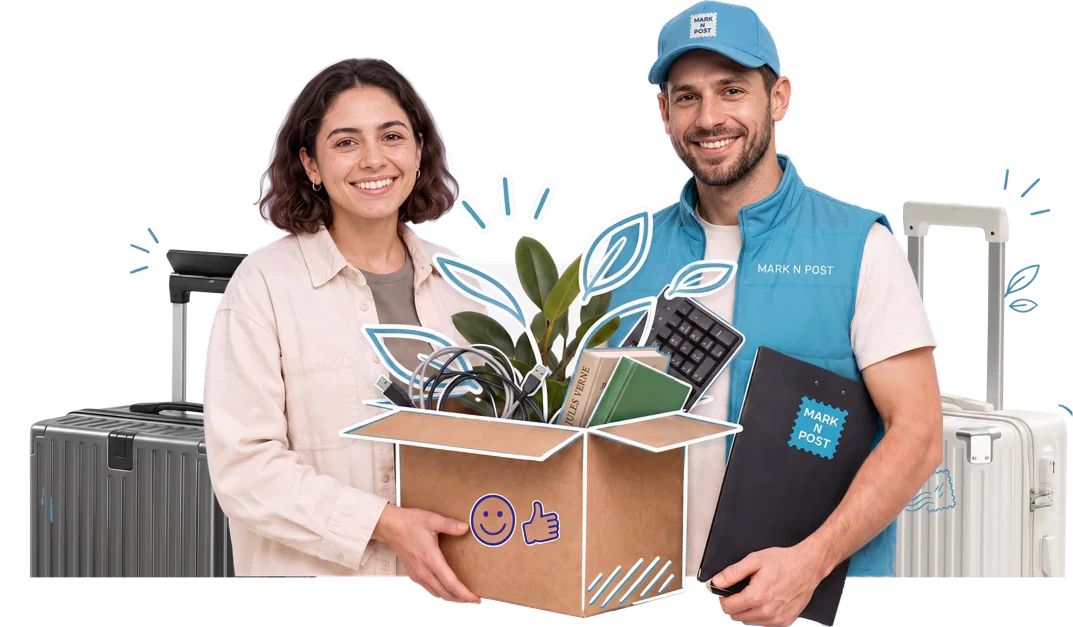
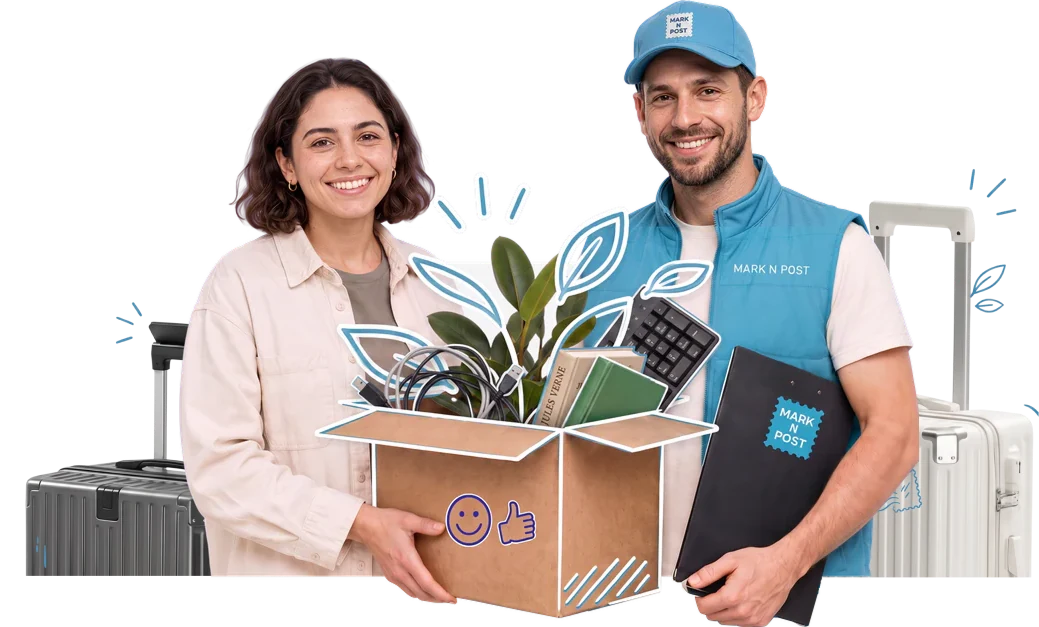
Refine stage 4 typography, slogans and form layout

diff --git a/georgia-russia/index.html b/georgia-russia/index.html
@@ -64,7 +64,7 @@
         ]
       }
     </script>
-    <link rel="stylesheet" href="../styles.css?v=20260907-badges3" />
+    <link rel="stylesheet" href="../styles.css?v=20260907-hero4" />
     <link rel="stylesheet" href="/assets/cookie-consent.css?v=20260901-2" />
     <script src="/assets/cookie-consent.js?v=20260901-2" defer></script>
     <script src="/assets/mobile-navigation.js?v=20260823-1" defer></script>
@@ -144,15 +144,15 @@
           <div class="hero-visual hero-visual--boxes">
             <img
               class="hero-relocation-image"
-              src="../assets/marknpost-hero-suitcases.webp"
-              width="1073"
+              src="../assets/marknpost-hero-suitcases.webp?v=2"
+              width="1039"
               height="627"
               alt="Мужчина и&nbsp;женщина с&nbsp;коробкой Mark’n’Post для&nbsp;переезда"
               fetchpriority="high"
               decoding="async"
             />
             <div class="hero-usp-card" aria-label="Маршрут доставки">
-              <p>Грузия ↔ Россия</p>
+              <p>Mark’n’Post</p>
               <strong><span class="slogan-line">Переезжаете?</span><span class="slogan-line">Оставьте все хлопоты нам</span></strong>
             </div>
           </div>
@@ -622,6 +622,6 @@
       <a class="footer-meta footer-credit" href="https://lanasvitla.github.io/ls-folio/" target="_blank" rel="noopener noreferrer">LS DESIGN</a>
     </footer>
 
-    <script src="../script.js?v=20260907-badges3"></script>
+    <script src="../script.js?v=20260907-hero4"></script>
   </body>
 </html>

diff --git a/styles.css b/styles.css
@@ -3380,3 +3380,17 @@ input[data-focus-placeholder]:focus::placeholder { opacity: 1; }
 @media (max-width: 767px) {
   .service-card__badge { width: 56px; height: 56px; }
 }
+
+/* Compact hero artwork: 20% less inset, taller panel, aligned to ratings. */
+.hero-visual--boxes .hero-relocation-image {
+  width: calc(100% - 25.6px);
+  margin-bottom: calc(-4.7161cqw + 1.2073px);
+}
+.hero-visual--boxes .hero-usp-card { padding-bottom: 40px; }
+.hero-visual--boxes .hero-usp-card p { text-transform: none; }
+@media (min-width: 1121px) {
+  .hero-visual.hero-visual--boxes { align-self: end; }
+}
+@media (max-width: 1120px) {
+  .hero-visual--boxes .hero-usp-card { padding-bottom: calc(5cqw + 12px); }
+}
